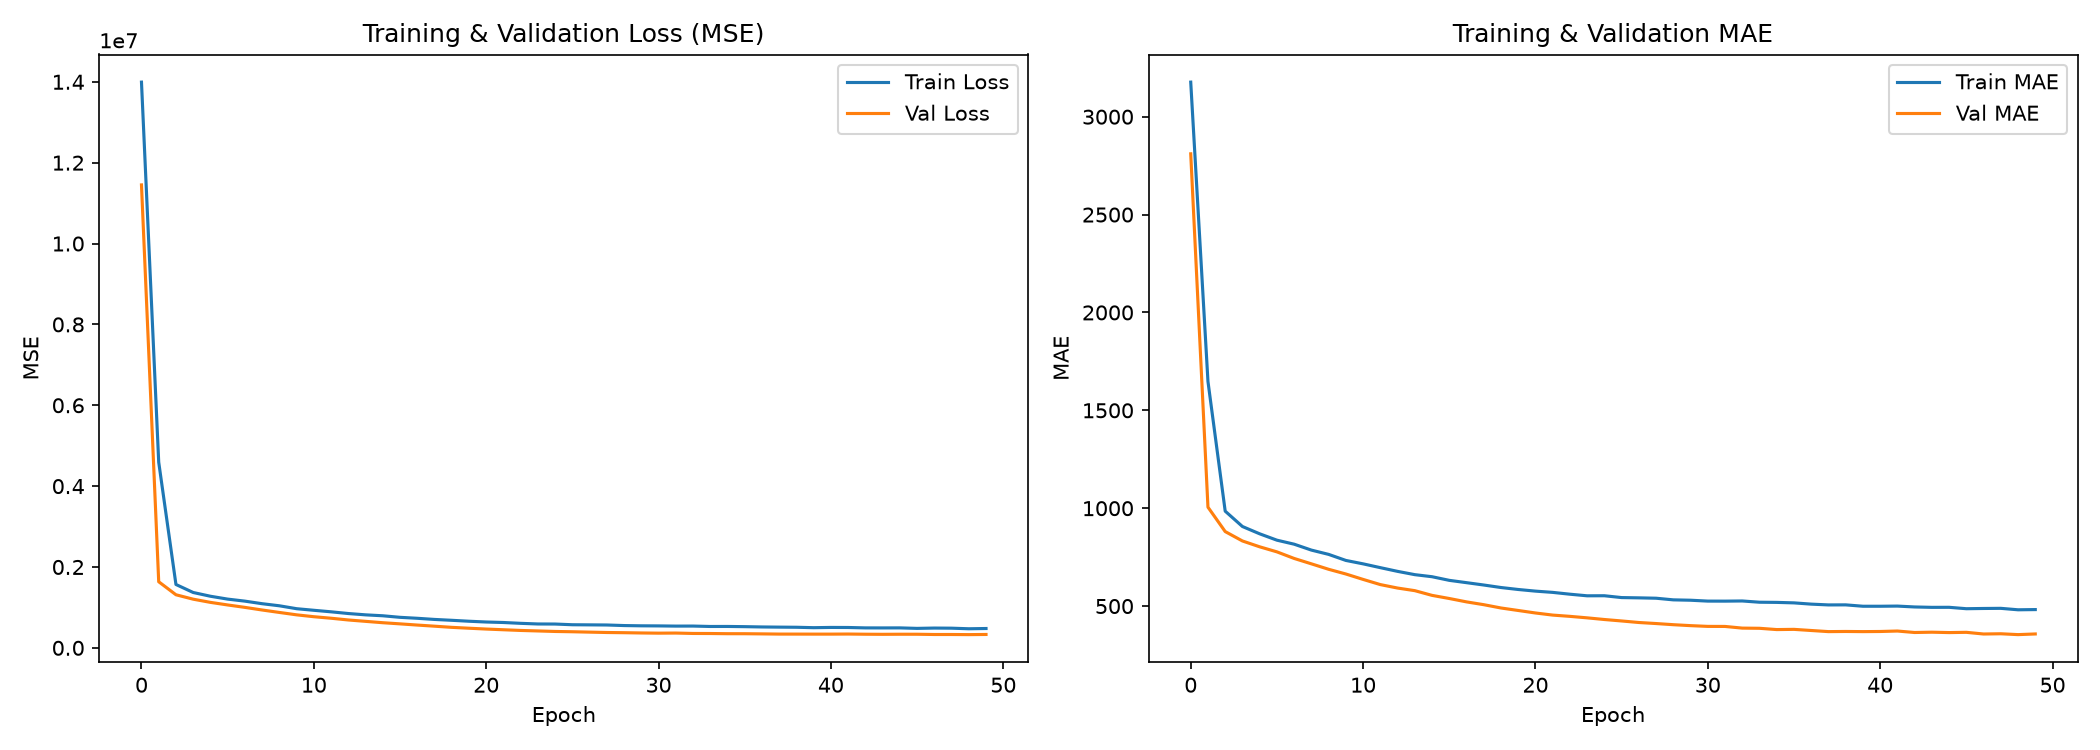
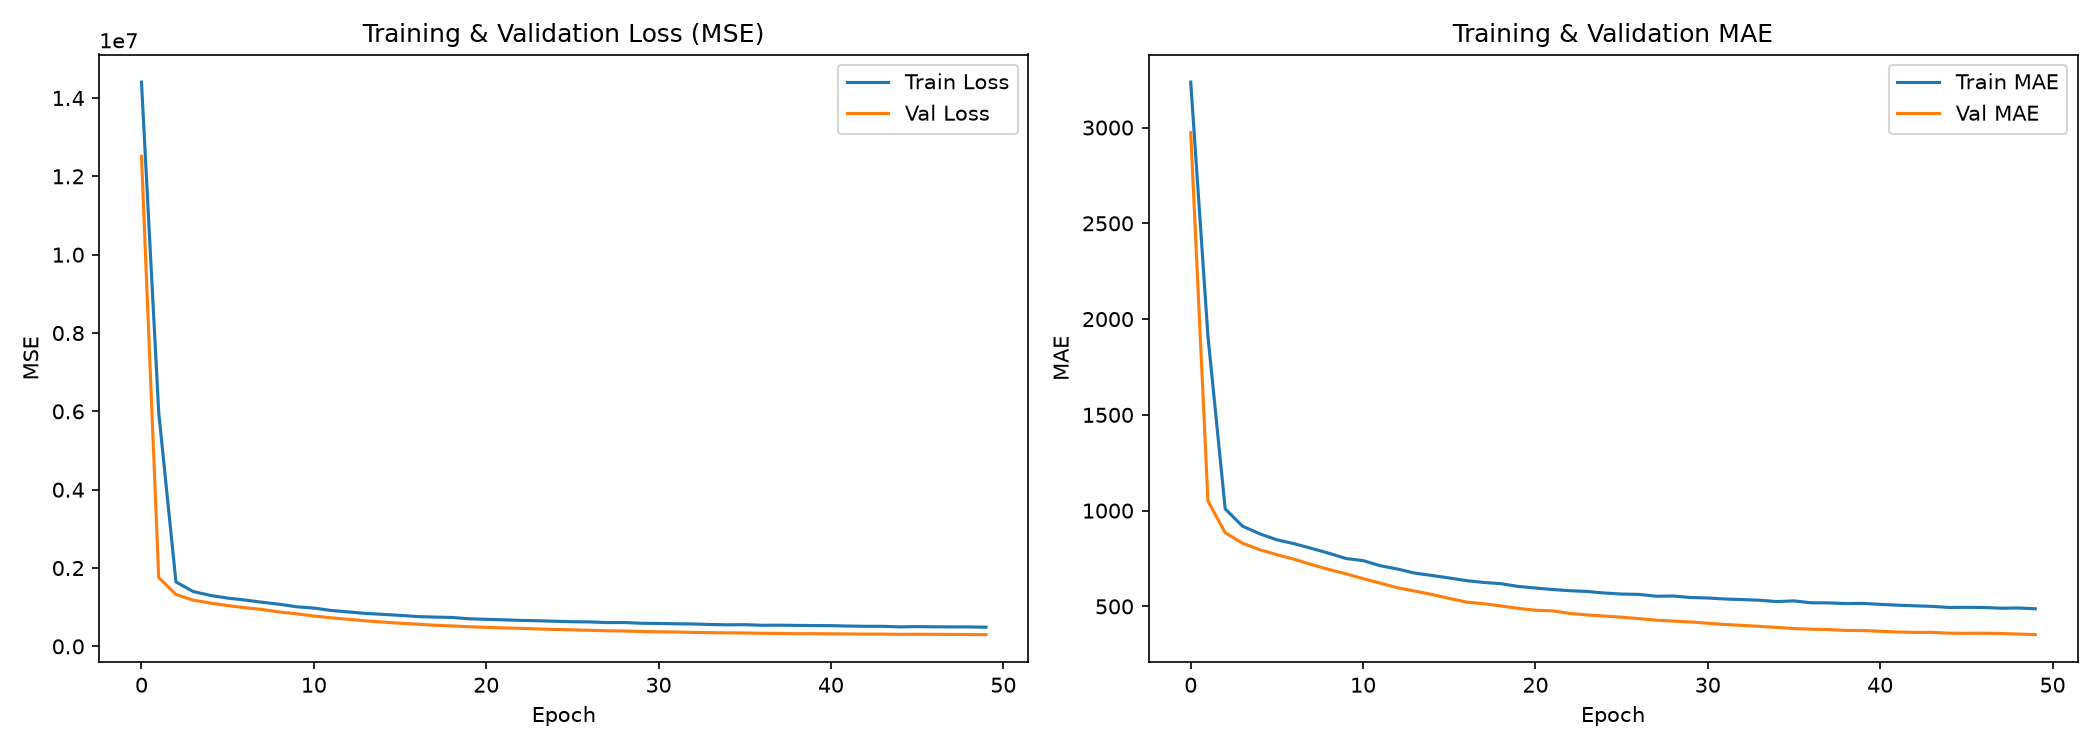
Part 3: reuse Part 2 cleaned and engineered data

diff --git a/capstone_part3/data_loader.py b/capstone_part3/data_loader.py
@@ -1,0 +1,43 @@
+"""
+Shared data-loading utility for Part 3 scripts.
+
+All Part 3 scripts should use the cleaned data from Part 2 so that
+outlier fixes (0 K temperatures, 9,831 mm rain) and timestamp
+deduplication carry forward.
+"""
+
+import logging
+import os
+
+import pandas as pd
+
+logger = logging.getLogger(__name__)
+
+BASE_DIR = os.path.dirname(os.path.dirname(os.path.abspath(__file__)))
+CLEANED_PATH = os.path.join(BASE_DIR, "capstone_part2", "cleaned_traffic.csv")
+FEATURED_PATH = os.path.join(BASE_DIR, "capstone_part2", "featured_traffic.csv")
+RAW_PATH = os.path.join(BASE_DIR, "data", "Metro_Interstate_Traffic_Volume.csv")
+
+
+def load_cleaned_data() -> pd.DataFrame:
+    """Load the Part 2 cleaned dataset (40,575 rows, deduplicated and imputed)."""
+    try:
+        df = pd.read_csv(CLEANED_PATH, parse_dates=["date_time"])
+        logger.info("Loaded cleaned data from Part 2: %d rows, %d columns", len(df), len(df.columns))
+        return df
+    except FileNotFoundError:
+        logger.warning("Cleaned data not found at %s — falling back to raw CSV", CLEANED_PATH)
+        df = pd.read_csv(RAW_PATH, parse_dates=["date_time"])
+        logger.info("Loaded raw data: %d rows, %d columns", len(df), len(df.columns))
+        return df
+
+
+def load_featured_data() -> pd.DataFrame:
+    """Load the Part 2 featured dataset (40,575 rows, 33 columns)."""
+    try:
+        df = pd.read_csv(FEATURED_PATH, parse_dates=["date_time"])
+        logger.info("Loaded featured data from Part 2: %d rows, %d columns", len(df), len(df.columns))
+        return df
+    except FileNotFoundError:
+        logger.warning("Featured data not found at %s — falling back to cleaned data", FEATURED_PATH)
+        return load_cleaned_data()

diff --git a/capstone_part3/monitoring.py b/capstone_part3/monitoring.py
@@ -189,7 +189,7 @@ def run_monitoring() -> None:
     """Execute the full monitoring pipeline."""
     # Paths relative to project root
     base_dir = os.path.dirname(os.path.dirname(os.path.abspath(__file__)))
-    data_path = os.path.join(base_dir, "data", "Metro_Interstate_Traffic_Volume.csv")
+    data_path = os.path.join(base_dir, "capstone_part2", "cleaned_traffic.csv")
     report_path = os.path.join(base_dir, "capstone_part3", "reports", "monitoring_report.txt")
     figure_path = os.path.join(base_dir, "figures", "monitoring_drift.png")
 

diff --git a/capstone_part3/unsupervised_ml.py b/capstone_part3/unsupervised_ml.py
@@ -200,7 +200,7 @@ def main() -> None:
     )
 
     repo_root = os.path.abspath(os.path.join(os.path.dirname(__file__), ".."))
-    data_path = os.path.join(repo_root, "data", "Metro_Interstate_Traffic_Volume.csv")
+    data_path = os.path.join(repo_root, "capstone_part2", "cleaned_traffic.csv")
     figures_dir = os.path.join(repo_root, "capstone_part3", "figures")
     os.makedirs(figures_dir, exist_ok=True)
 

diff --git a/capstone_part3/supervised_ml.py b/capstone_part3/supervised_ml.py
@@ -29,7 +29,7 @@ from sklearn.preprocessing import StandardScaler
 logger = logging.getLogger(__name__)
 
 BASE_DIR = os.path.dirname(os.path.dirname(os.path.abspath(__file__)))
-DATA_PATH = os.path.join(BASE_DIR, "data", "Metro_Interstate_Traffic_Volume.csv")
+DATA_PATH = os.path.join(BASE_DIR, "capstone_part2", "cleaned_traffic.csv")
 FIGURES_DIR = os.path.join(BASE_DIR, "figures")
 
 SEVERE_WEATHER = [

diff --git a/capstone_part3/deployment/app.py b/capstone_part3/deployment/app.py
@@ -60,7 +60,7 @@ def train_model() -> None:
     global model, encoder, weather_categories, quartile_thresholds
 
     repo_root = Path(__file__).resolve().parents[2]
-    data_path = repo_root / "data" / "Metro_Interstate_Traffic_Volume.csv"
+    data_path = repo_root / "capstone_part2" / "cleaned_traffic.csv"
 
     logger.info("Loading dataset from %s", data_path)
     df = pd.read_csv(data_path)

diff --git a/capstone_part3/deep_learning.py b/capstone_part3/deep_learning.py
@@ -34,7 +34,7 @@ from sklearn.preprocessing import StandardScaler
 logger = logging.getLogger(__name__)
 
 BASE_DIR = os.path.dirname(os.path.dirname(os.path.abspath(__file__)))
-DATA_PATH = os.path.join(BASE_DIR, "data", "Metro_Interstate_Traffic_Volume.csv")
+DATA_PATH = os.path.join(BASE_DIR, "capstone_part2", "cleaned_traffic.csv")
 FIGURES_DIR = os.path.join(BASE_DIR, "figures")
 
 

diff --git a/capstone_part3/recommendation.py b/capstone_part3/recommendation.py
@@ -15,7 +15,7 @@ import seaborn as sns
 
 logger = logging.getLogger(__name__)
 
-DATA_PATH = os.path.join(os.path.dirname(__file__), "..", "data", "Metro_Interstate_Traffic_Volume.csv")
+DATA_PATH = os.path.join(os.path.dirname(__file__), "..", "capstone_part2", "cleaned_traffic.csv")
 FIGURES_DIR = os.path.join(os.path.dirname(__file__), "..", "figures")
 
 WEATHER_CATEGORY_MAP = {

diff --git a/capstone_part3/advanced_ai.py b/capstone_part3/advanced_ai.py
@@ -52,7 +52,7 @@ warnings.filterwarnings("ignore", category=FutureWarning)
 
 logger = logging.getLogger(__name__)
 
-DATA_PATH = os.path.join("data", "Metro_Interstate_Traffic_Volume.csv")
+DATA_PATH = os.path.join("capstone_part2", "cleaned_traffic.csv")
 MLFLOW_TRACKING_DIR = os.path.join("capstone_part3", "mlflow_logs")
 EXPERIMENT_NAME = "traffic_volume_prediction"
 
